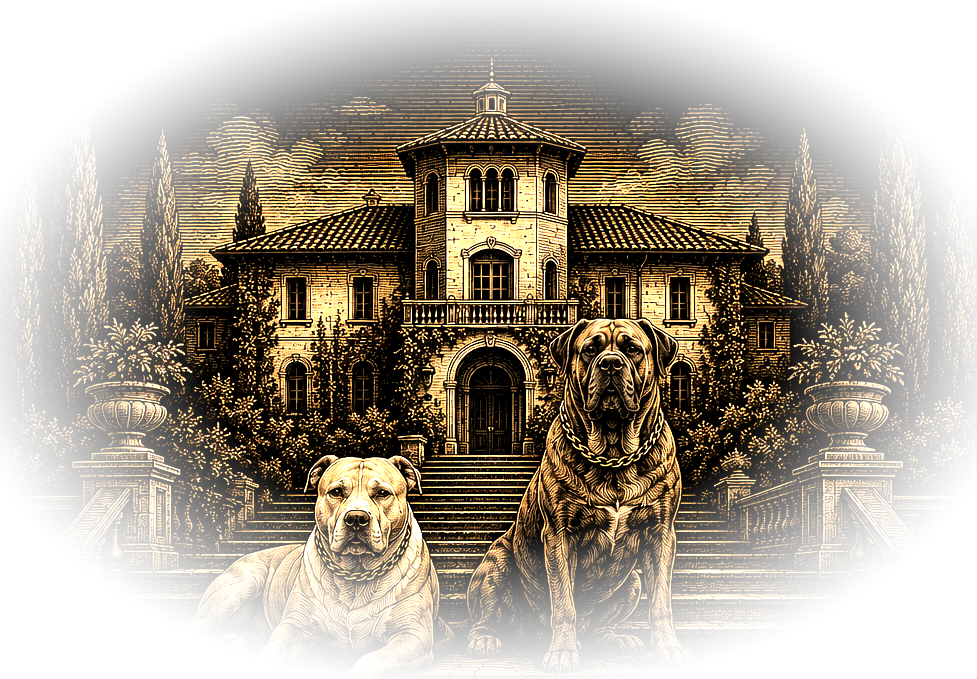
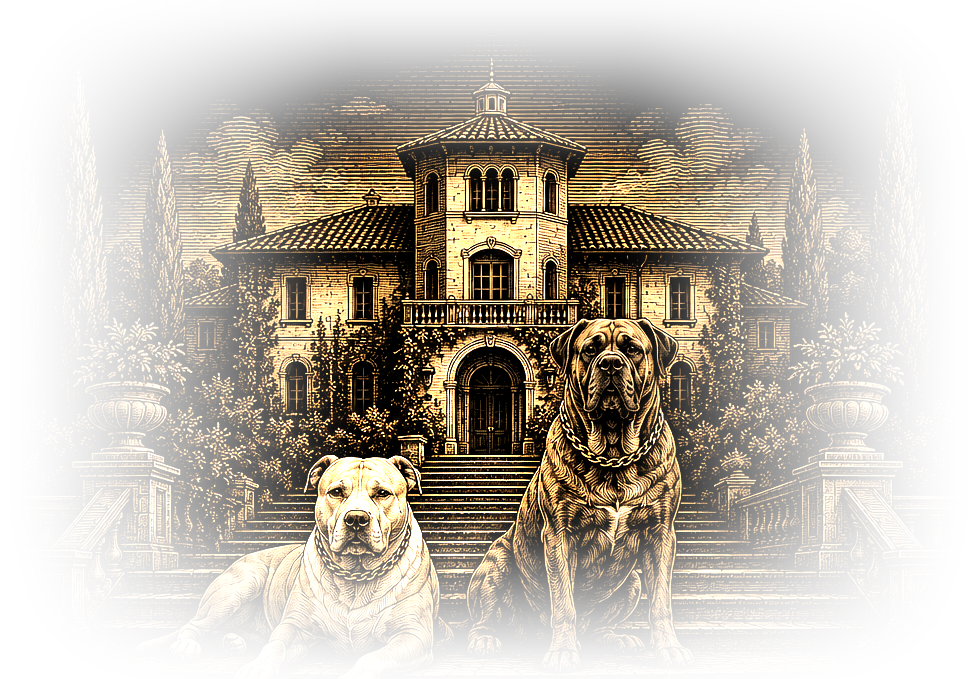
please be the last

diff --git a/styles.css b/styles.css
@@ -314,3 +314,15 @@ body{line-height:1.8}
 .hero-center > *:not(.hero-art){position:relative;z-index:1}
 @media (max-width:64rem){.hero-art{width:min(560px,88vw);top:-30px}}
 @media (max-width:48rem){.hero-art{width:min(420px,92vw);top:-18px;opacity:.24}}
+
+/* ===== Hero composition 1.1.1: final nudge ===== */
+.hero-art{top:-67px;width:min(655px,84vw)}
+@media (max-width:64rem){.hero-art{width:min(532px,86vw);top:-48px}}
+@media (max-width:48rem){.hero-art{width:min(400px,90vw);top:-32px}}
+
+/* ===== Header 1.1.2: publisher's mark scale + optical alignment ===== */
+.brand-emblem{height:118px}
+.brand{gap:1.5rem;transform:translateY(-3px)}
+.header-inner{min-height:132px}
+@media (max-width:64rem){.brand-emblem{height:92px}.header-inner{min-height:110px}}
+@media (max-width:48rem){.brand-emblem{height:78px}.brand{gap:1rem}.header-inner{min-height:96px}}

diff --git a/CLAUDE.md b/CLAUDE.md
@@ -1,3 +1,15 @@
+## Header 1.1.2
+- Estate icon enlarged ~23% (96px to 118px). It reads as a publisher's mark now, not decoration. Wordmark size UNCHANGED.
+- Spacing between icon and wordmark widened to 1.5rem.
+- Whole logo group nudged up 3px (optical alignment; mathematically centered read as low to the eye).
+- Header height grown to hold the larger mark without crowding.
+
+## Hero composition 1.1.1 (no further composition changes)
+- Illustration raised 25px, scaled down 5%.
+- Side feathering deepened significantly (separable falloff, horizontal solid zone only 30% of half-width, plus an 18px gaussian on the alpha). Smoke, not rectangle.
+- The GUARDIANS ONLY brightened a further 30% through a soft elliptical mask so their eyes and faces read; the rest of the illustration untouched.
+- FOUNDER'S INSIGHT, now standing doctrine: the house creates the setting, the typography creates the philosophy, THE DOGS CREATE THE EMOTION. The dogs are the hero of the hero. Never let them wash out, never let them disappear, never redraw them as anything but the founder's real guardians.
+
 ## HERO COMPOSITION LOCK (the breakthrough)
 The illustration is a LOGO being used as a BACKGROUND COMPOSITION. Those are two different jobs. Never drop the original logo in as a watermark again.
 - Asset: CB_Hero_Composition_v1.png. Purpose-built hero crop (tighter framing, less empty border), brightened ~55% so the guardians' faces read, edges feathered to nothing. Brightness was raised INSTEAD of opacity.